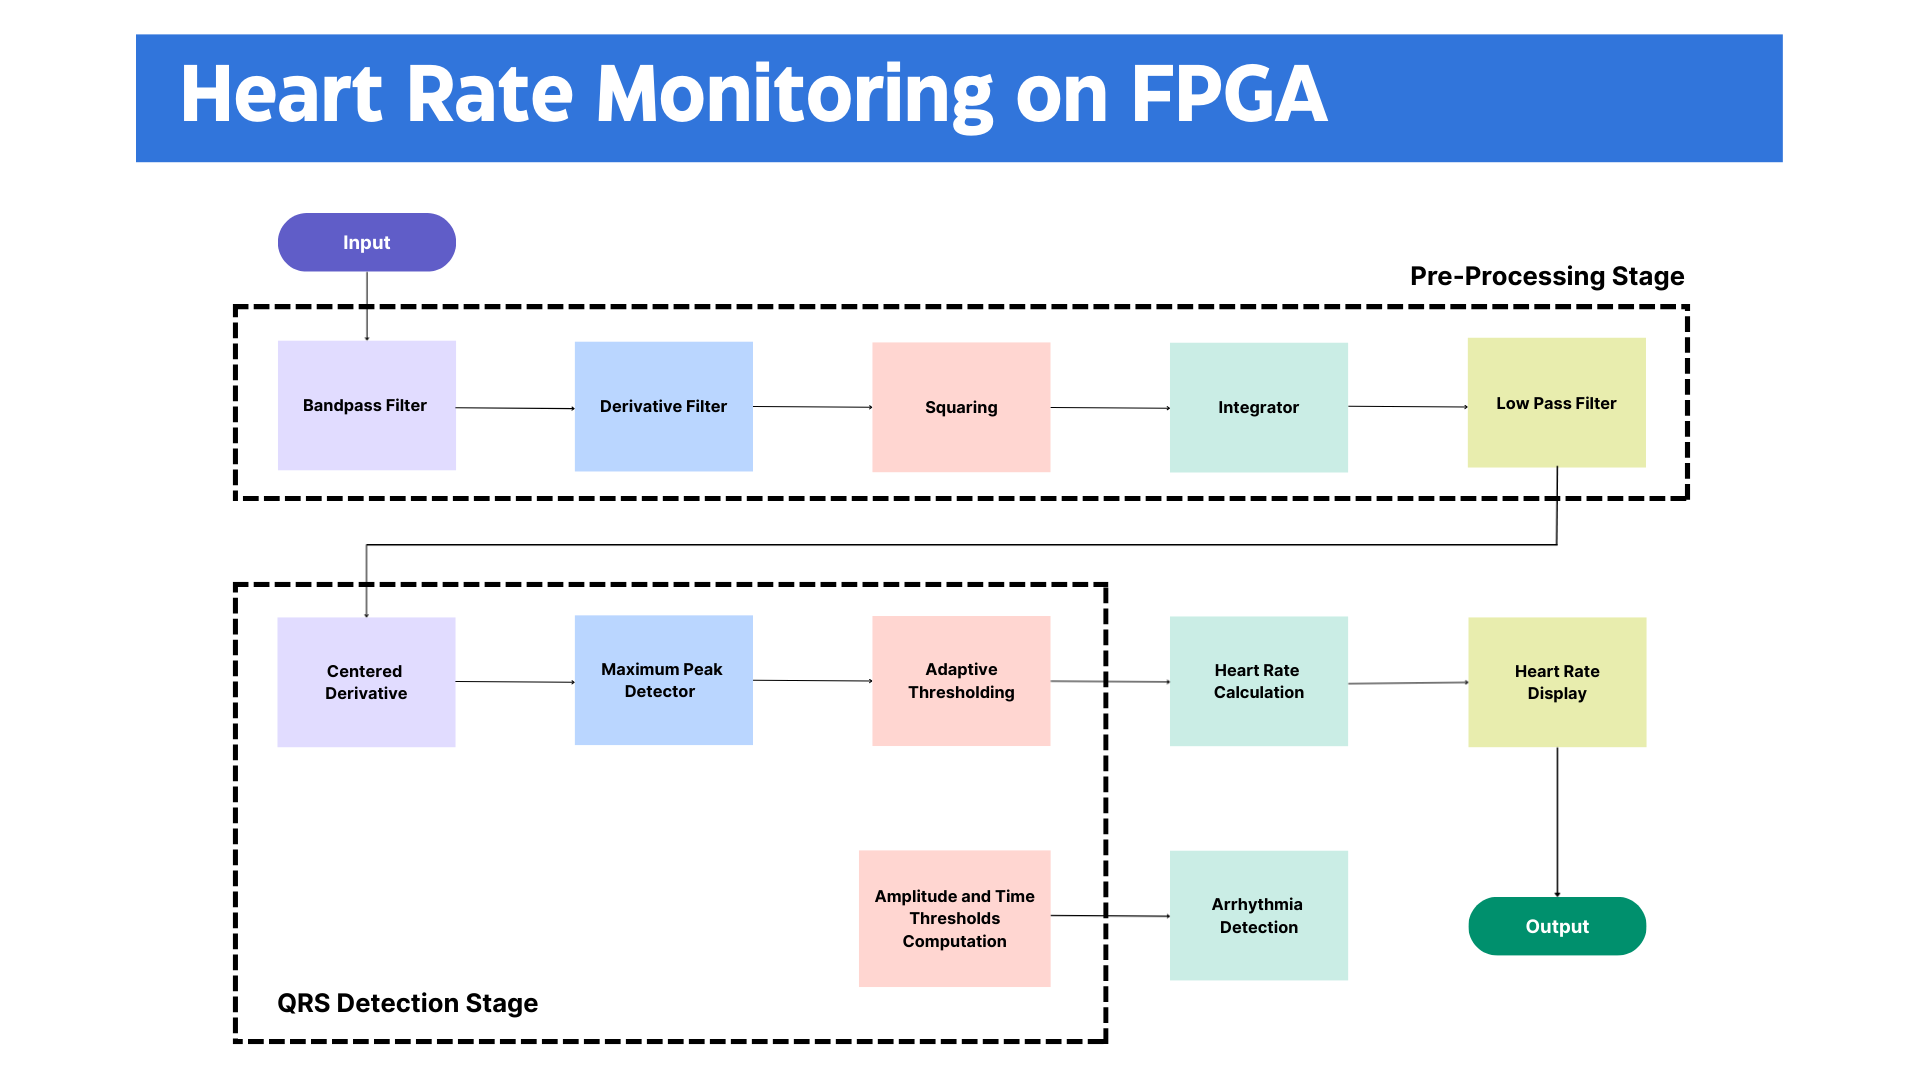
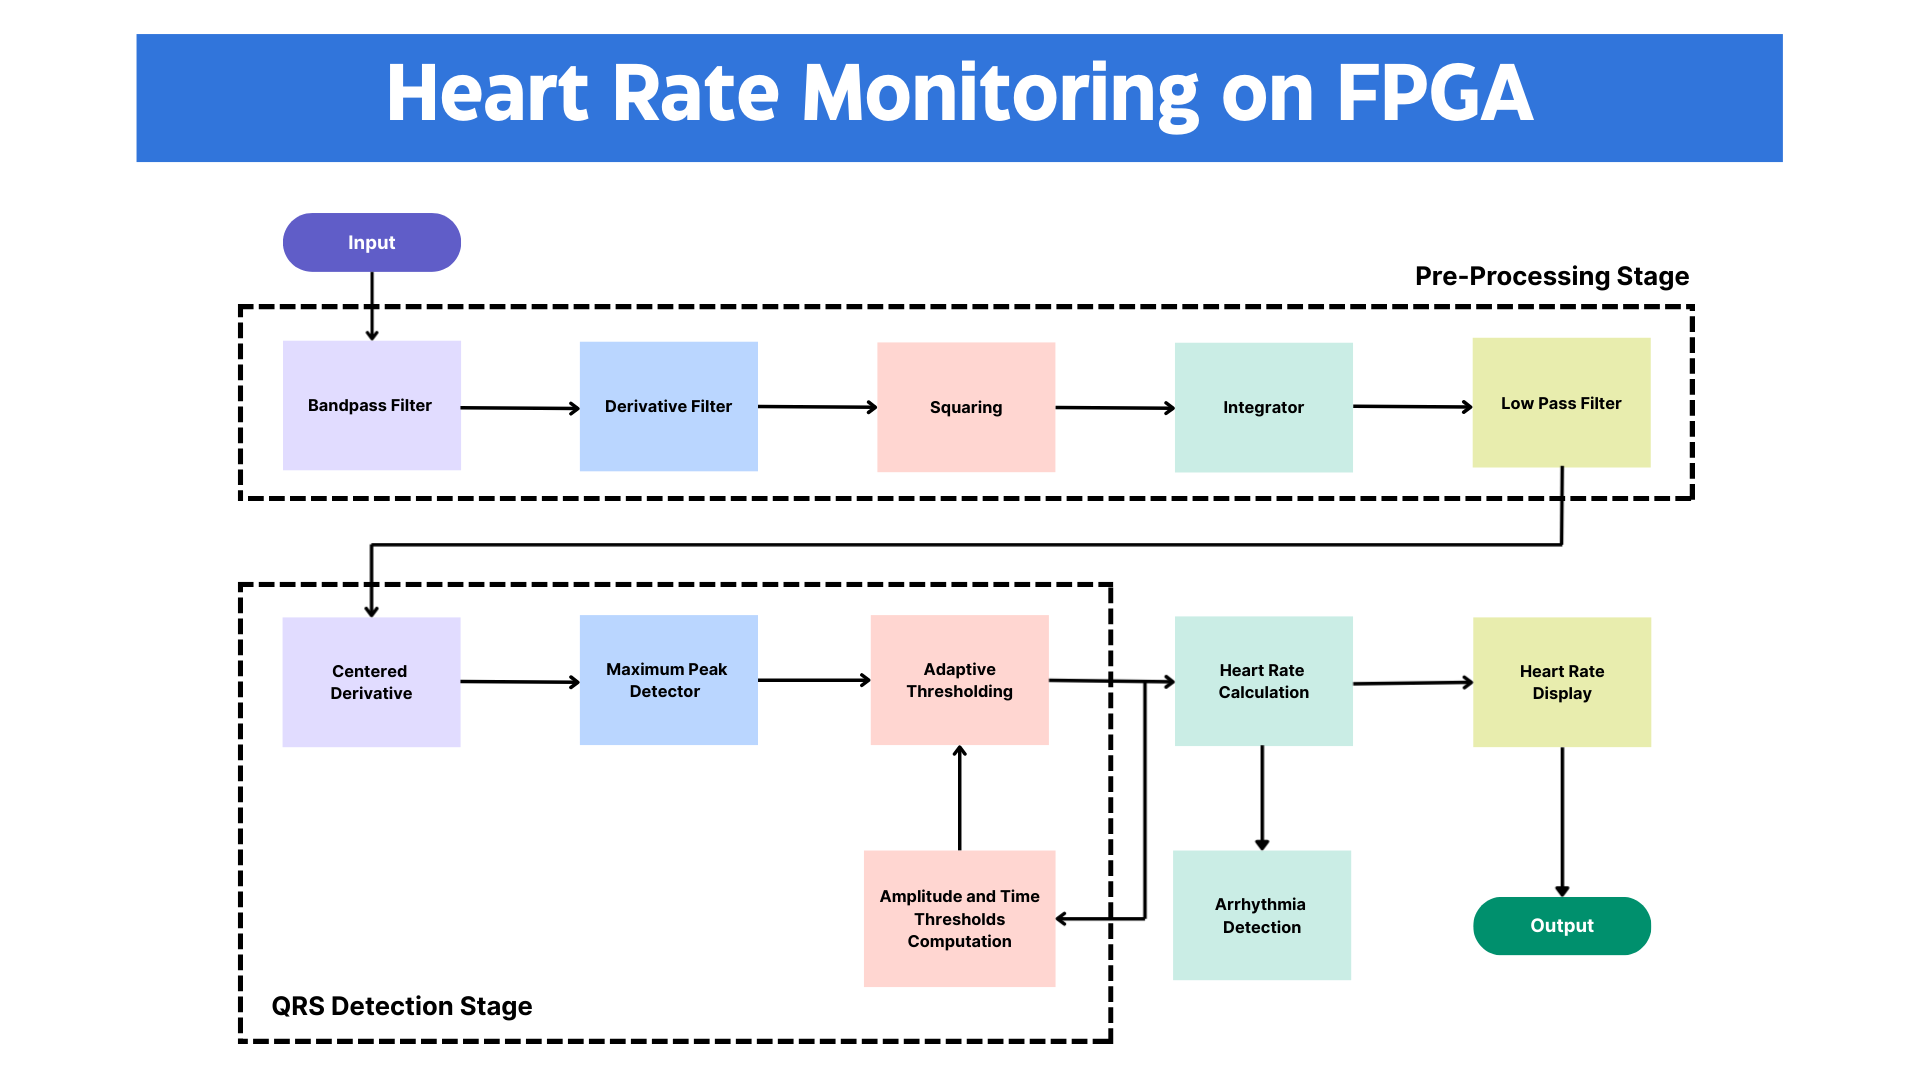
improved documentation

diff --git a/README.md b/README.md
@@ -1,4 +1,22 @@
 # FPGA-Based-Heart-Rate-Monitoring-and-Arrhythmia-Detection
 This project focuses on FPGA-based implementation of a high- performance system designed for real-time QRS complex detection and heart rate analysis. The objective of this work is to design a reliable and resource-efficient hardware architecture for heart rate monitoring. 
 
-<img src = "/Resources/Image1.png"></img>
+<img src = "/Resources/Image.png"></img>
+
+## Different Modules :
+Pre-Processing Stage: 
+
+1. Bandpass Filter : 
+2. Derivative Filter :
+3. Squaring :
+4. Integrator :
+5. Low Pass Filter : 
+
+QRS Detection Stage:
+1. Centered Derivative :
+2. Maximum Peak Detector :
+3. Adaptive Thresholding :
+4. Amplitude and Time Computation :
+5. Heart Rate Calculation :
+6. Arrhytmia Detection :
+7. Heart Rate Display : 